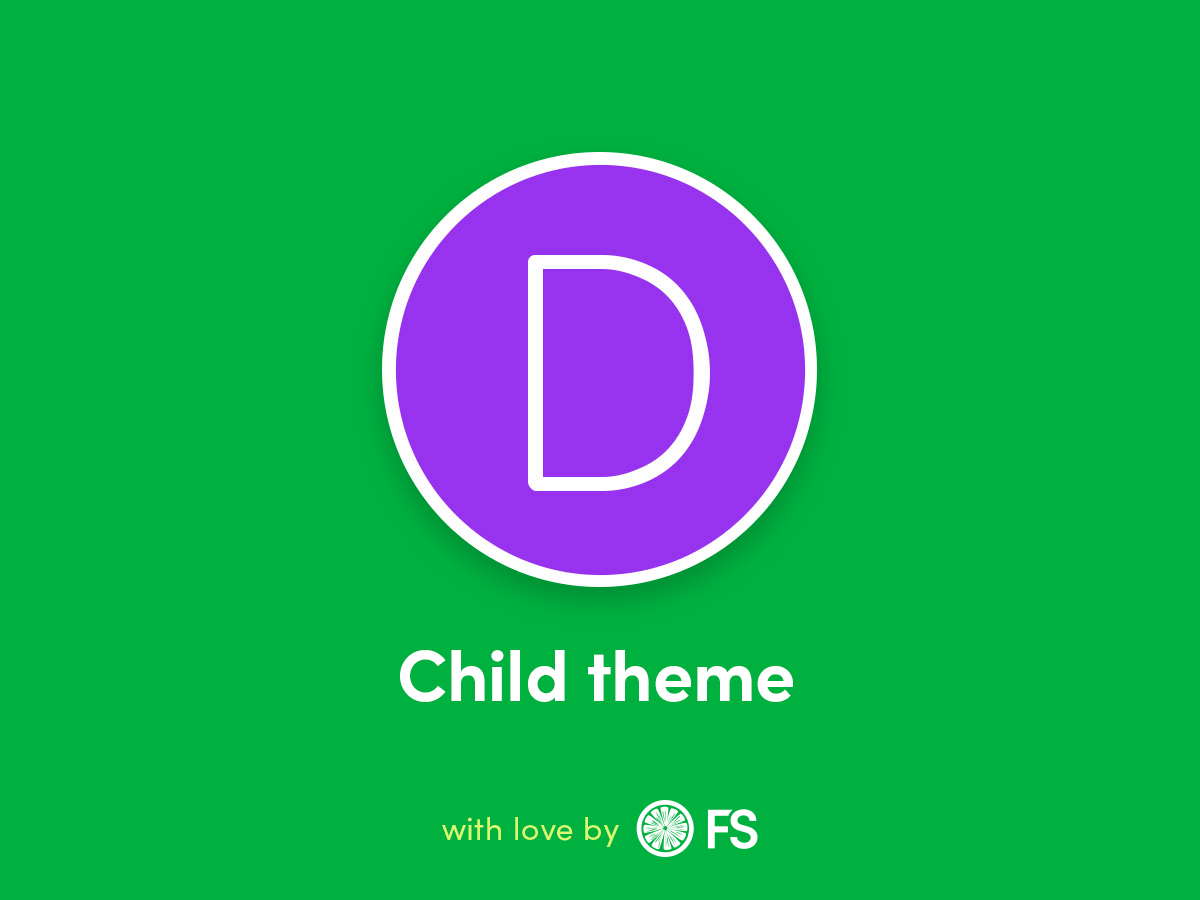
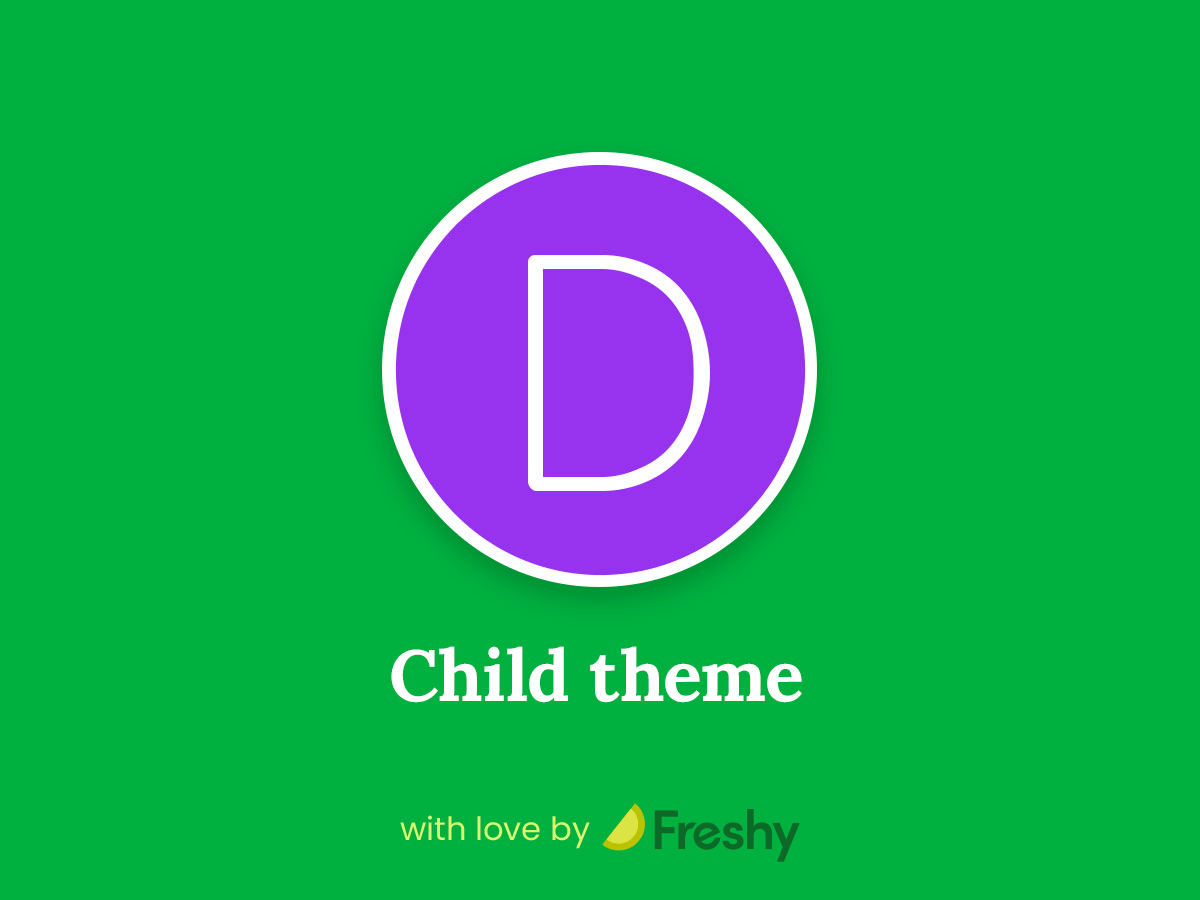
Add files via upload
Updated branding and fixed AIOSEO Details column logic

Changed region(s): [[0.3392, 0.8711, 0.6783, 0.9644], [0.4933, 0.7156, 0.6783, 0.7778], [0.3083, 0.7156, 0.4625, 0.7778]]

diff --git a/style.css b/style.css
@@ -1,11 +1,11 @@
 /*
 Theme Name: Divi Child
 Theme URI: https://www.elegantthemes.com/gallery/divi/
-Description: Divi child theme via FreshySites
-Author: FreshySites
+Description: Divi child theme via Freshy
+Author: Freshy
 Author URI: https://freshysites.com/
 Template: Divi
-Version: 3.0.1
+Version: 4.0.0
 */
 /* Add your own styles at the bottom */
 
@@ -256,16 +256,16 @@ h1.tertiary, h2.tertiary, h3.tertiary, h4.tertiary, h5.tertiary, h6.tertiary, li
 /* add an FS logo via background */
 #freshy_copyright a.copyright_fs {
 	display: block;
-	width: 42px;
+	width: 68px;
 	height: 20px;
-	background-image: url("/wp-content/uploads/fs-lettermark-white.svg");
+	background-image: url("/wp-content/uploads/Freshy_Logo_White_RGB.svg");
 	background-repeat: no-repeat;
 	background-position: center;
 	background-size: contain;
 	text-indent: 200%;
 	white-space: nowrap;
 	overflow: hidden;
-	margin: 0;
+	margin: 4px 0 0 0;
 	flex-shrink: 0;
 	transition: all 0.4s ease-in-out;
 }

diff --git a/functions.php b/functions.php
@@ -142,24 +142,42 @@ add_action( 'admin_init', 'fs_check_blogvault_is_active' );
 // disable the SEO menu in the admin toolbar
 add_filter( 'aioseo_show_in_admin_bar', '__return_false' );
 
-// disable the AIOSEO Details column for users that don't have a freshysites.com email address
-if ( function_exists( 'aioseo' ) ) {
-	// fires after WordPress has finished loading but before any headers are sent.
-	add_action( 'init', function() {
-		// get current User
-		$user = wp_get_current_user(); 
-		// get their email address
-		$email = $user->user_email;
-		// check the email's domain
-		$domain = 'freshysites.com';
-		// check if email address matches domain list
-		$banned = strpos($email, $domain) === false;
-		// if current user's email address doesn't match domain list
-		if( $user && $banned ) {
-			// remove the AIOSEO Details column for users without a particular email address domain
-			remove_action( 'current_screen', [ aioseo()->admin, 'addPostColumns' ], 1 );
+// disable the AIOSEO Details column for users that don't have a certain email address
+// https://wordpress.org/support/topic/remove-aioseo-details-via-remove_action/#post-16434394
+add_action( 'current_screen', 'remove_aioseo_column', 0 );
+function remove_aioseo_column() {
+	
+	// get current User
+	$user = wp_get_current_user(); 
+	// get their email address
+	$email = $user->user_email;
+	// check the email's domain
+	$domain = 'freshysites.com';
+	// check if email address matches domain list
+	$banned = strpos($email, $domain) === false;
+
+	// get allt he actions and filters
+	global $wp_filter;
+
+	// if it's current screen isn't set, then get out of the function
+	if ( empty( $wp_filter['current_screen'][1] ) ) {
+		return;
+	}
+	// go through each current screen details
+	foreach ( $wp_filter['current_screen'][1] as $actionName => $params ) {
+		if (
+			empty( $params['function'][0] ) ||
+			! is_object( $params['function'][0] ) ||
+			stripos( get_class( $params['function'][0] ), 'aioseo' ) === false
+		) {
+			continue;
 		}
-	} );
+		// if user is banned (without a particular email address domain), then hide the AIOSEO Details screen option (and thus the AIOSEO column)
+		if ( $user && $banned ) {
+			remove_action( 'current_screen', $params['function'], 1 );
+		}
+	}
+
 }
 
 /* -- Plugin Notes Plus -- */
